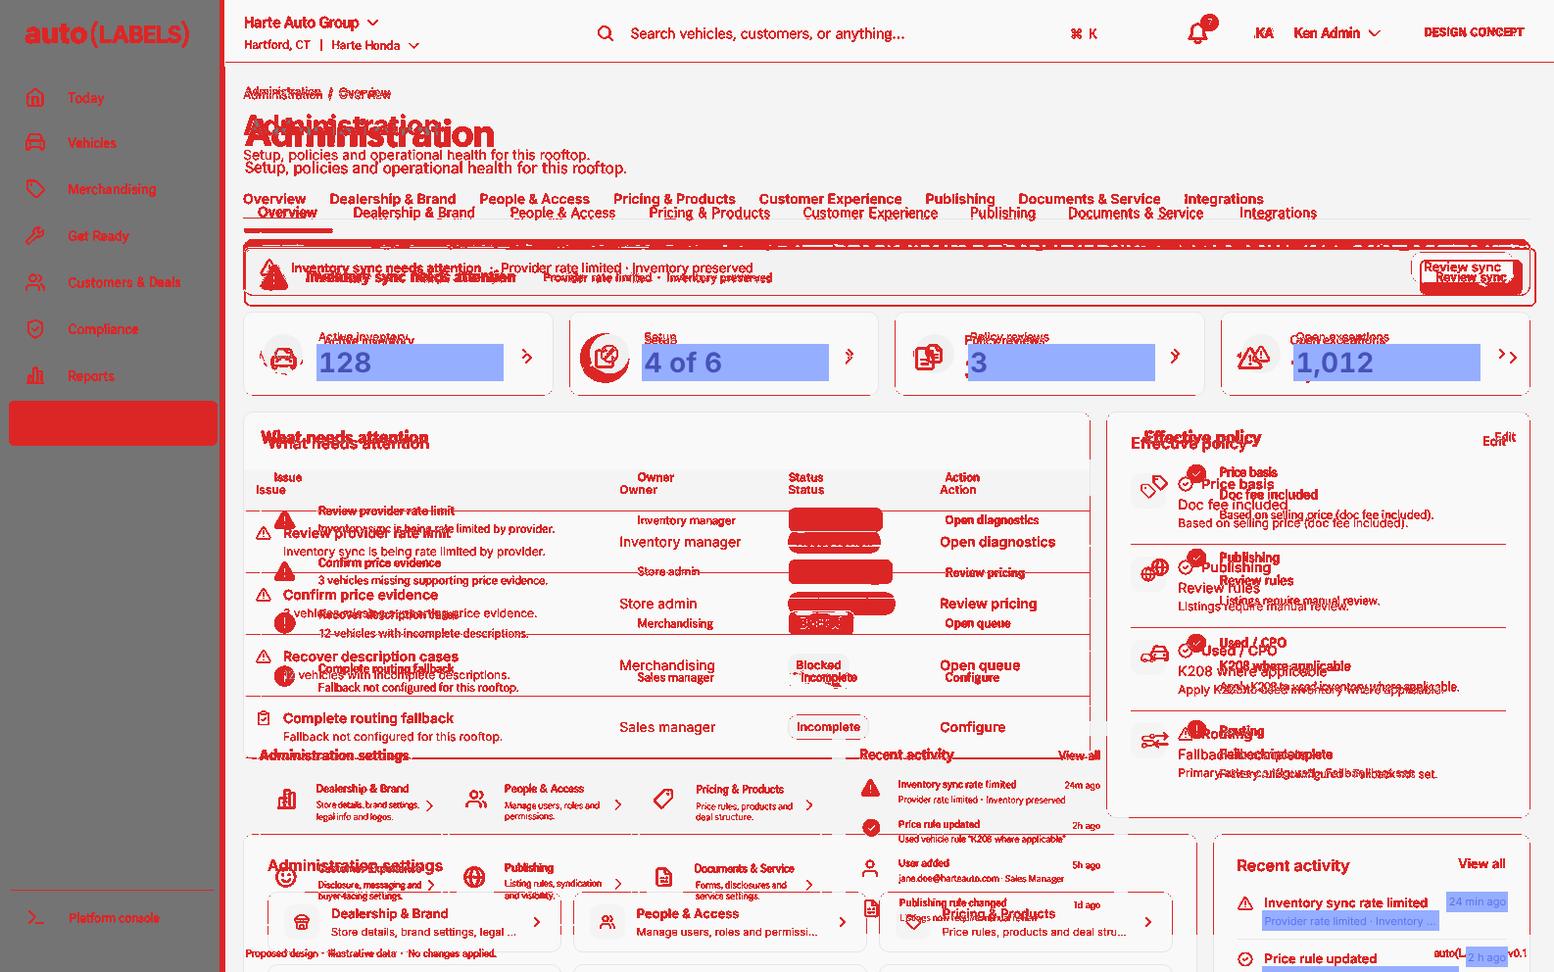
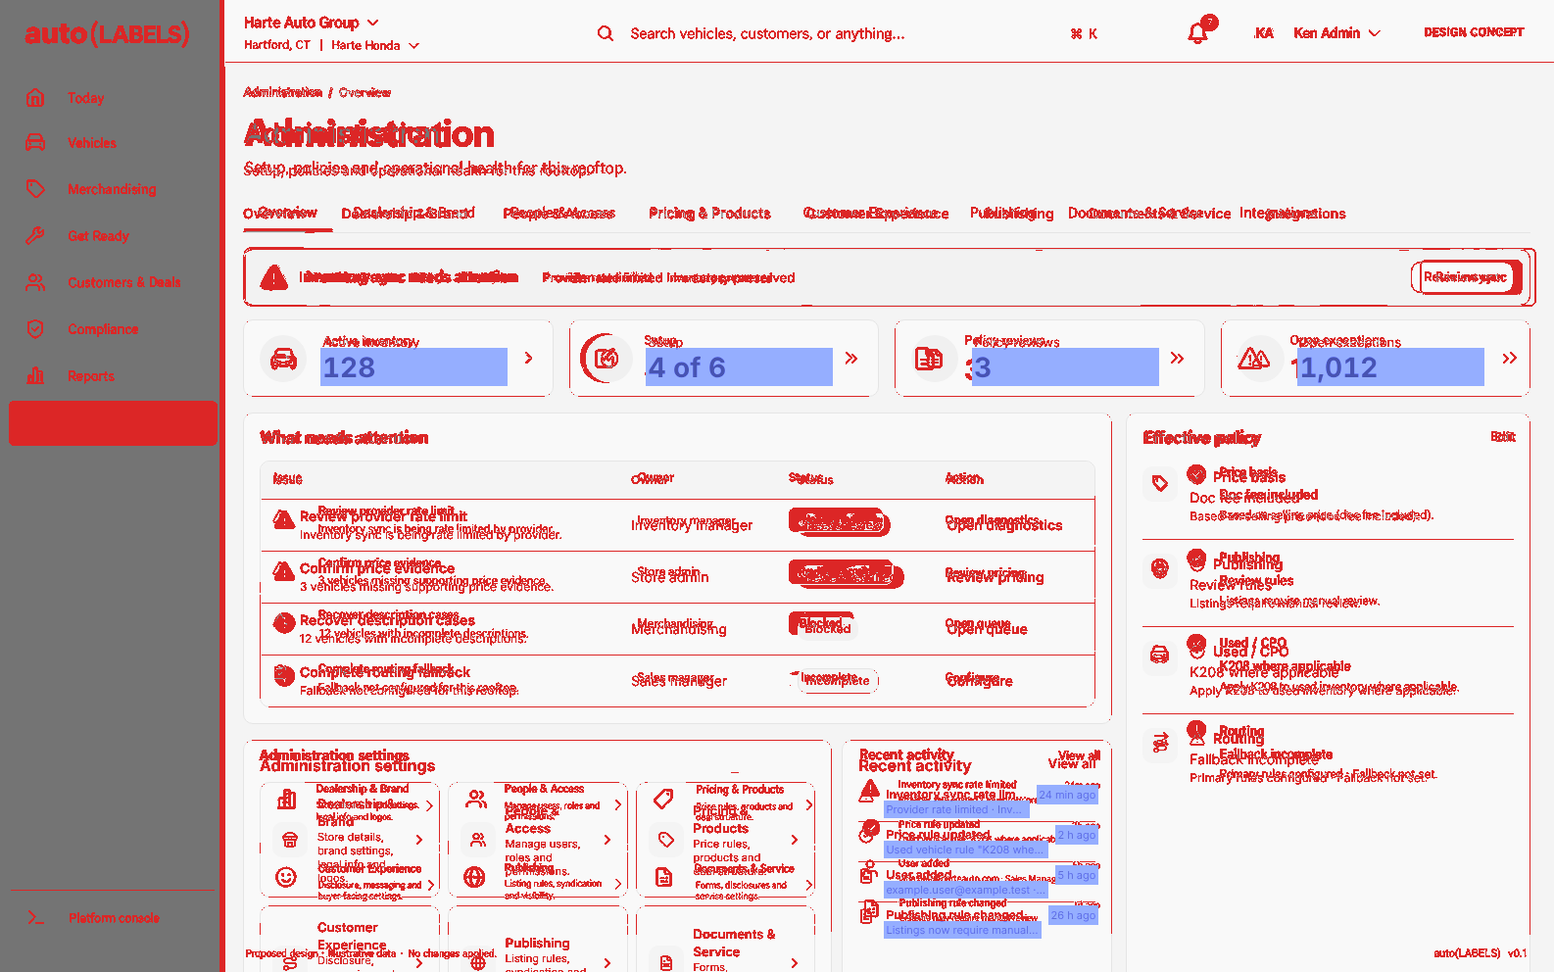
Bring the Overview card rhythm to the reference measurements
- Add a 16px card inset, dense and inset table options, an outline button and a 79px stat tile to the V2 primitives
- Match the header offsets: 22px page padding, 38px section row, no extra content padding
- Stretch Effective policy to the row height and set the attention, policy, settings and activity rhythms from the measured reference

diff --git a/src/pages/admin/views/OverviewView.tsx b/src/pages/admin/views/OverviewView.tsx
@@ -188,31 +188,33 @@ export default function OverviewView() {
 
   return (
     <div className="space-y-4">
-      <HealthBanner
-        verdict={feed}
-        title={feed && feed.state !== "healthy" ? "Inventory sync needs attention" : undefined}
-        action={<AdminLinkButton to={adminTabHref("inventory-feed")} variant="secondary" size="sm">Review sync</AdminLinkButton>}
-      />
-      {failed && (
-        <p role="status" className="text-[13px] text-adm-muted">Some counts could not be read for this rooftop. They show as Unavailable rather than zero.</p>
-      )}
+      <div className="space-y-3.5">
+        <HealthBanner
+          verdict={feed}
+          title={feed && feed.state !== "healthy" ? "Inventory sync needs attention" : undefined}
+          action={<AdminLinkButton to={adminTabHref("inventory-feed")} variant="outline" size="sm">Review sync</AdminLinkButton>}
+        />
+        {failed && (
+          <p role="status" className="text-[13px] text-adm-muted">Some counts could not be read for this rooftop. They show as Unavailable rather than zero.</p>
+        )}
 
-      <div className="grid grid-cols-1 sm:grid-cols-2 xl:grid-cols-4 gap-4">
-        <StatTile icon={Car} label="Active inventory" value={countDisplay(activeInventory)} href="/inventory" tone="info" />
-        <StatTile icon={CheckCircle2} label="Setup" value={setup ? `${setup.done} of ${setup.total}` : "Unknown"} href={adminTabHref("identity")} tone="success" />
-        <StatTile icon={FileText} label="Policy reviews" value={countDisplay(policyReviews)} href="/dashboard/document-review" tone="info" />
-        <StatTile icon={AlertTriangle} label="Open exceptions" value={countDisplay(openExceptions)} href="/admin/exceptions" tone="danger" />
+        <div className="grid grid-cols-1 sm:grid-cols-2 xl:grid-cols-4 gap-4">
+          <StatTile icon={Car} label="Active inventory" value={countDisplay(activeInventory)} href="/inventory" tone="info" />
+          <StatTile icon={CheckCircle2} label="Setup" value={setup ? `${setup.done} of ${setup.total}` : "Unknown"} href={adminTabHref("identity")} tone="success" />
+          <StatTile icon={FileText} label="Policy reviews" value={countDisplay(policyReviews)} href="/dashboard/document-review" tone="info" />
+          <StatTile icon={AlertTriangle} label="Open exceptions" value={countDisplay(openExceptions)} href="/admin/exceptions" tone="danger" />
+        </div>
       </div>
 
-      <div className="grid grid-cols-1 xl:grid-cols-[minmax(0,2.15fr)_minmax(300px,1fr)] gap-3.5 items-start">
+      <div className="grid grid-cols-1 xl:grid-cols-[minmax(0,2.15fr)_minmax(300px,1fr)] gap-3.5 items-stretch">
         <div className="space-y-4 min-w-0">
-        <AdminCard title="What needs attention" flush>
+        <AdminCard title="What needs attention" flush inset="sm">
           {loading && !fixture ? (
-            <p className="px-6 pb-6 text-[13px] text-adm-muted">Checking this rooftop…</p>
+            <p className="px-4 pb-4 text-[13px] text-adm-muted">Checking this rooftop…</p>
           ) : attention.length === 0 ? (
-            <p className="px-6 pb-6 text-[13px] text-adm-muted">{failed ? "Attention items could not be checked." : "Nothing needs attention right now."}</p>
+            <p className="px-4 pb-4 text-[13px] text-adm-muted">{failed ? "Attention items could not be checked." : "Nothing needs attention right now."}</p>
           ) : (
-            <AdminTable caption="Ranked attention queue">
+            <AdminTable caption="Ranked attention queue" dense inset>
               <thead>
                 <tr>
                   <Th>Issue</Th>
@@ -247,17 +249,17 @@ export default function OverviewView() {
           )}
         </AdminCard>
 
-        <div className="grid grid-cols-1 lg:grid-cols-[minmax(0,2.18fr)_minmax(260px,1fr)] gap-2.5 items-start">
-        <AdminCard title="Administration settings">
-          <div className="grid grid-cols-1 sm:grid-cols-2 lg:grid-cols-3 gap-3">
+        <div className="grid grid-cols-1 lg:grid-cols-[minmax(0,2.18fr)_minmax(260px,1fr)] gap-2.5 items-stretch">
+        <AdminCard title="Administration settings" inset="sm" bodyClassName="pt-1.5 pb-3">
+          <div className="grid grid-cols-1 sm:grid-cols-2 lg:grid-cols-3 gap-2">
             {SHORTCUTS.map((s) => {
               const section = ADMIN_SECTIONS.find((x) => x.id === s.section)!;
               return (
-                <Link key={s.section} to={adminTabHref(section.tabs[0].id)} className="flex items-center gap-3 rounded-[10px] border border-adm-border px-4 py-3 hover:border-adm-primary/60">
+                <Link key={s.section} to={adminTabHref(section.tabs[0].id)} className="flex items-center gap-2.5 rounded-[10px] border border-adm-border px-3 py-3 hover:border-adm-primary/60">
                   <span className="w-9 h-9 rounded-md bg-adm-workspace text-adm-ink flex items-center justify-center flex-shrink-0" aria-hidden="true"><s.icon className="w-4 h-4" /></span>
                   <span className="min-w-0 flex-1">
-                    <span className="block text-[13px] font-semibold text-adm-ink">{s.title}</span>
-                    <span className="block text-[11px] leading-[16px] text-adm-muted truncate">{s.detail}</span>
+                    <span className="block text-[13px] leading-[18px] font-semibold text-adm-ink">{s.title}</span>
+                    <span className="block text-[11px] leading-[14px] text-adm-muted line-clamp-2">{s.detail}</span>
                   </span>
                   <ChevronRight className="w-4 h-4 text-adm-muted" aria-hidden="true" />
                 </Link>
@@ -266,21 +268,21 @@ export default function OverviewView() {
           </div>
         </AdminCard>
 
-        <AdminCard title="Recent activity" action={<Link to={adminTabHref("activity")} className="text-[13px] font-semibold text-adm-primary hover:underline">View all</Link>}>
+        <AdminCard title="Recent activity" inset="sm" bodyClassName="pt-1.5 pb-3" action={<Link to={adminTabHref("activity")} className="text-[13px] font-semibold text-adm-primary hover:underline">View all</Link>}>
           {activity.length === 0 ? (
             <p className="text-[13px] text-adm-muted">No recent activity recorded for this rooftop.</p>
           ) : (
-            <ul className="divide-y divide-adm-border -mt-2">
+            <ul className="divide-y divide-adm-border">
               {activity.slice(0, 5).map((a) => (
-                <li key={a.id} className="flex items-start gap-3 py-2.5">
-                  <span className={`mt-0.5 w-4 h-4 flex-shrink-0 ${a.tone === "warning" ? "text-adm-warning" : a.tone === "success" ? "text-adm-success" : "text-adm-muted"}`} aria-hidden="true">
+                <li key={a.id} className="flex items-start gap-3 py-[5px]">
+                  <span className={`mt-px w-4 h-4 flex-shrink-0 ${a.tone === "warning" ? "text-adm-warning" : a.tone === "success" ? "text-adm-success" : "text-adm-muted"}`} aria-hidden="true">
                     {a.tone === "warning" ? <AlertTriangle className="w-4 h-4" /> : a.tone === "success" ? <CheckCircle2 className="w-4 h-4" /> : <FileText className="w-4 h-4" />}
                   </span>
                   <span className="min-w-0 flex-1">
-                    <span className="block text-[13px] font-semibold text-adm-ink truncate">{a.action}</span>
-                    <span className="block text-[11px] leading-[16px] text-adm-muted truncate">{a.detail}</span>
+                    <span className="block text-[12px] leading-[16px] font-semibold text-adm-ink truncate">{a.action}</span>
+                    <span className="block text-[11px] leading-[14px] text-adm-muted truncate">{a.detail}</span>
                   </span>
-                  <span className="text-[11px] text-adm-muted whitespace-nowrap">{describeAge(a.at, now)}</span>
+                  <span className="text-[11px] leading-[16px] text-adm-muted whitespace-nowrap">{describeAge(a.at, now)}</span>
                 </li>
               ))}
             </ul>
@@ -289,13 +291,13 @@ export default function OverviewView() {
         </div>
         </div>
 
-        <AdminCard title="Effective policy" action={<Link to={adminTabHref("effective-policy")} className="text-[13px] font-semibold text-adm-primary hover:underline">Edit</Link>}>
+        <AdminCard title="Effective policy" inset="sm" className="h-full" action={<Link to={adminTabHref("effective-policy")} className="text-[13px] font-semibold text-adm-primary hover:underline">Edit</Link>}>
           <ul className="divide-y divide-adm-border -mt-2">
             {policy.map((row) => {
               const Icon = row.key === "price_basis" ? Tag : row.key === "publishing" ? Globe : row.key === "used_cpo" ? Car : Route;
               const ok = row.state === "ok";
               return (
-                <li key={row.key} className="flex items-start gap-3 py-3">
+                <li key={row.key} className="flex items-start gap-3 py-[14px]">
                   <span className="w-9 h-9 rounded-md bg-adm-workspace text-adm-muted flex items-center justify-center flex-shrink-0" aria-hidden="true"><Icon className="w-4 h-4" /></span>
                   <div className="min-w-0 flex-1">
                     <div className="flex items-center gap-2">

diff --git a/src/components/admin/v2/primitives.tsx b/src/components/admin/v2/primitives.tsx
@@ -52,6 +52,7 @@ export const AdminCard = ({
   bodyClassName,
   id,
   flush = false,
+  inset = "md",
 }: {
   title?: ReactNode;
   description?: ReactNode;
@@ -62,20 +63,26 @@ export const AdminCard = ({
   id?: string;
   /** Table cards: no body padding so rows run edge to edge. */
   flush?: boolean;
-}) => (
-  <section id={id} className={cn("rounded-[10px] border border-adm-border bg-adm-surface", className)}>
-    {(title || action) && (
-      <header className={cn("flex items-start justify-between gap-4 px-6 pt-5", flush ? "pb-4" : "pb-0")}>
-        <div className="min-w-0">
-          {title && <h3 className="text-[16px] leading-[22px] font-semibold text-adm-ink">{title}</h3>}
-          {description && <p className="mt-0.5 text-[13px] leading-[18px] text-adm-muted">{description}</p>}
-        </div>
-        {action && <div className="flex-shrink-0 flex items-center gap-2">{action}</div>}
-      </header>
-    )}
-    <div className={cn(flush ? "" : "px-6 pb-6", title && !flush ? "pt-4" : !title && !flush ? "pt-6" : "", bodyClassName)}>{children}</div>
-  </section>
-);
+  /** Dense dashboard cards sit on a 16px inset; the default form card keeps 24px. */
+  inset?: "sm" | "md";
+}) => {
+  const sm = inset === "sm";
+  const padX = sm ? "px-4" : "px-6";
+  return (
+    <section id={id} className={cn("rounded-[10px] border border-adm-border bg-adm-surface", className)}>
+      {(title || action) && (
+        <header className={cn("flex items-start justify-between gap-4", padX, sm ? "pt-3.5" : "pt-5", flush ? (sm ? "pb-3" : "pb-4") : "pb-0")}>
+          <div className="min-w-0">
+            {title && <h3 className="text-[16px] leading-[22px] font-semibold text-adm-ink">{title}</h3>}
+            {description && <p className="mt-0.5 text-[13px] leading-[18px] text-adm-muted">{description}</p>}
+          </div>
+          {action && <div className="flex-shrink-0 flex items-center gap-2">{action}</div>}
+        </header>
+      )}
+      <div className={cn(flush ? "" : cn(padX, sm ? "pb-4" : "pb-6"), title && !flush ? (sm ? "pt-3" : "pt-4") : !title && !flush ? (sm ? "pt-4" : "pt-6") : "", bodyClassName)}>{children}</div>
+    </section>
+  );
+};
 
 export const SectionTitle = ({ title, description, action, as: Tag = "h2" }: { title: ReactNode; description?: ReactNode; action?: ReactNode; as?: "h2" | "h3" }) => (
   <div className="flex items-end justify-between gap-4 flex-wrap">
@@ -114,19 +121,19 @@ export const StatTile = ({
   const body = (
     <>
       {Icon && (
-        <span className={cn("w-10 h-10 rounded-full flex items-center justify-center flex-shrink-0", iconWrap[tone])} aria-hidden="true">
+        <span className={cn("w-12 h-12 rounded-full flex items-center justify-center flex-shrink-0", iconWrap[tone])} aria-hidden="true">
           <Icon className="w-5 h-5" />
         </span>
       )}
       <span className="min-w-0 flex-1">
-        <span className="block text-[12px] leading-[18px] text-adm-muted">{label}</span>
+        <span className="block text-[13px] leading-[18px] text-adm-muted">{label}</span>
         <span className="block text-[28px] leading-[34px] font-bold text-adm-ink tabular-nums truncate">{value}</span>
         {hint && <span className="block text-[12px] leading-[18px] text-adm-muted mt-0.5 truncate">{hint}</span>}
       </span>
       {href && <ChevronRight className="w-4 h-4 text-adm-muted flex-shrink-0" aria-hidden="true" />}
     </>
   );
-  const cls = "flex items-center gap-4 rounded-[10px] border border-adm-border bg-adm-surface px-5 py-4 min-h-[76px]";
+  const cls = "flex items-center gap-4 rounded-[10px] border border-adm-border bg-adm-surface px-4 py-3 min-h-[79px]";
   return href ? (
     <Link to={href} className={cn(cls, "hover:border-adm-primary/60 focus-visible:outline-2 focus-visible:outline-adm-primary")} aria-label={ariaLabel ?? `${label}: ${typeof value === "string" || typeof value === "number" ? value : ""}`}>
       {body}
@@ -154,24 +161,24 @@ export const HealthBanner = ({ verdict, action, title }: { verdict: HealthVerdic
 export const InlineNote = ({ tone = "info", title, children, action, className }: { tone?: Tone; title?: ReactNode; children?: ReactNode; action?: ReactNode; className?: string }) => {
   const Icon = TONE_ICON[tone];
   return (
-    <div role={tone === "danger" ? "alert" : "status"} className={cn("flex items-center gap-3 rounded-[10px] border px-4 py-3", BANNER[tone], className)}>
-      <Icon className="w-5 h-5 flex-shrink-0" aria-hidden="true" />
-      <div className="min-w-0 flex-1 text-[13px] leading-[18px]">
-        {title && <span className="font-semibold">{title}</span>}
-        {title && children && <span className="mx-2 opacity-60" aria-hidden="true">·</span>}
-        {children && <span className="opacity-90">{children}</span>}
+    <div role={tone === "danger" ? "alert" : "status"} className={cn("flex items-center gap-4 rounded-[10px] border px-4 py-3", BANNER[tone], className)}>
+      <Icon className="w-6 h-6 flex-shrink-0" aria-hidden="true" />
+      <div className="min-w-0 flex-1 flex items-baseline gap-x-6 gap-y-0 flex-wrap">
+        {title && <span className="text-[15px] leading-[22px] font-semibold">{title}</span>}
+        {children && <span className="text-[13px] leading-[18px] opacity-90">{children}</span>}
       </div>
       {action && <div className="flex-shrink-0">{action}</div>}
     </div>
   );
 };
 
-type ButtonProps = ButtonHTMLAttributes<HTMLButtonElement> & { variant?: "primary" | "secondary" | "ghost" | "danger"; size?: "sm" | "md" };
+type ButtonProps = ButtonHTMLAttributes<HTMLButtonElement> & { variant?: "primary" | "secondary" | "outline" | "ghost" | "danger"; size?: "sm" | "md" };
 
 const BUTTON_BASE = "inline-flex items-center justify-center gap-2 rounded-md font-semibold text-[14px] leading-[20px] transition-colors disabled:opacity-50 disabled:cursor-not-allowed focus-visible:outline focus-visible:outline-2 focus-visible:outline-offset-2 focus-visible:outline-adm-primary";
 const BUTTON_VARIANT: Record<NonNullable<ButtonProps["variant"]>, string> = {
   primary: "bg-adm-primary text-white hover:bg-adm-primary-hover border border-adm-primary",
   secondary: "bg-adm-surface text-adm-ink border border-adm-border hover:bg-adm-workspace",
+  outline: "bg-adm-surface text-adm-primary border border-adm-primary hover:bg-adm-selected",
   ghost: "bg-transparent text-adm-primary hover:bg-adm-selected",
   danger: "bg-adm-surface text-adm-danger border border-[#F3B4AE] hover:bg-adm-danger-bg",
 };
@@ -186,8 +193,8 @@ export const AdminLinkButton = ({ variant = "secondary", size = "md", className,
 );
 
 /** Table shell: 12px semibold headers on the workspace tint, 12px cells, 1px row lines. */
-export const AdminTable = ({ children, className, caption }: { children: ReactNode; className?: string; caption?: string }) => (
-  <div className={cn("overflow-x-auto", className)}>
+export const AdminTable = ({ children, className, caption, dense = false, inset = false }: { children: ReactNode; className?: string; caption?: string; /** 7px cells for dashboard queues. */ dense?: boolean; /** Draw the table as a bordered box inside a flush card. */ inset?: boolean }) => (
+  <div className={cn("overflow-x-auto", inset && "mx-4 mb-4 rounded-md border border-adm-border", dense && "[&_th]:py-2.5 [&_td]:py-[7px] [&_tbody_tr:last-child>td]:border-b-0", className)}>
     <table className="w-full border-collapse text-left text-[14px] leading-[20px] text-adm-ink">
       {caption && <caption className="sr-only">{caption}</caption>}
       {children}

diff --git a/src/components/admin/v2/AdminShell.tsx b/src/components/admin/v2/AdminShell.tsx
@@ -23,7 +23,7 @@ export const AdminSectionNav = ({ sections, activeId, tabFor, ariaLabel = "Admin
               to={adminTabHref(target.id)}
               aria-current={active ? "page" : undefined}
               className={cn(
-                "inline-flex items-center h-10 text-[14px] leading-[20px] font-semibold whitespace-nowrap border-b-2 -mb-px transition-colors focus-visible:outline-2 focus-visible:outline-adm-primary",
+                "inline-flex items-center h-[38px] text-[14px] leading-[20px] font-semibold whitespace-nowrap border-b-2 -mb-px transition-colors focus-visible:outline-2 focus-visible:outline-adm-primary",
                 active ? "text-adm-primary border-adm-primary" : "text-adm-muted border-transparent hover:text-adm-ink",
               )}
             >
@@ -86,7 +86,7 @@ export const Breadcrumbs = ({ crumbs }: { crumbs: Crumb[] }) => (
 );
 
 export const AdminPageContainer = ({ children, className }: { children: ReactNode; className?: string }) => (
-  <div data-admin-v2="" className={cn("w-full max-w-[1600px] mx-auto px-4 sm:px-6 py-5 sm:py-6 text-adm-ink", className)}>
+  <div data-admin-v2="" className={cn("w-full max-w-[1600px] mx-auto px-4 sm:px-6 py-5 sm:py-[22px] text-adm-ink", className)}>
     {children}
   </div>
 );
@@ -110,12 +110,12 @@ export const AdminShell = ({
     <div className="space-y-4">
       <div>
         <Breadcrumbs crumbs={[{ label: "Administration", href: "/admin" }, { label: activeSection.label }]} />
-        <h1 className="mt-4 text-[28px] leading-[40px] font-bold text-adm-ink">Administration</h1>
-        <p className="mt-1.5 text-[14px] leading-[20px] text-adm-muted">{activeSection.description}</p>
+        <h1 className="mt-3 text-[28px] leading-[40px] font-bold text-adm-ink">Administration</h1>
+        <p className="mt-2 text-[14px] leading-[20px] text-adm-muted">{activeSection.description}</p>
       </div>
       <AdminSectionNav sections={sections} activeId={activeSection.id} tabFor={firstTabFor} />
       <AdminChildTabs tabs={tabsForSection} activeId={activeTab.id} ariaLabel={`${activeSection.label} views`} />
-      <div className="pt-1">{children}</div>
+      <div>{children}</div>
     </div>
   </AdminPageContainer>
 );

diff --git a/ADMIN_V2_PARITY_REPORT.md b/ADMIN_V2_PARITY_REPORT.md
@@ -1,6 +1,6 @@
 # Administration V2 visual parity report
 
-Generated 2026-10-28T03:41:30.459Z by `bun run admin:parity` against the development fixture route. Every screen is a synthetic fixture rendered by the real Administration components; no production data appears in any capture.
+Generated 2026-10-28T04:06:43.914Z by `bun run admin:parity` against the development fixture route. Every screen is a synthetic fixture rendered by the real Administration components; no production data appears in any capture.
 
 ## Method
 
@@ -13,16 +13,16 @@ Generated 2026-10-28T03:41:30.459Z by `bun run admin:parity` against the develop
 - Landmarks: hand-measured boxes from the reference (`scripts/admin-parity/landmarks.json`, tolerance 16px) compared with the rendered DOM boxes.
 - Responsive: 1920x1080, 1366x768, 1024x768 and 390x844 captured; a breakpoint passes when the document has no horizontal overflow and no element extends past the viewport.
 
-Registered fixtures: 01.
+Registered fixtures: 10, 11, 01, 03, 04, 08, 09.
 
 ## Screen 01
 
-Reference: `scripts/admin-parity/reference/01-admin-overview.png`. Fonts: Inter loaded (Inter). Gate: FAIL (landmarks out of tolerance; page overflow at a breakpoint; content parity 88.64% is below 97%).
+Reference: `scripts/admin-parity/reference/01-admin-overview.png`. Fonts: Inter loaded (Inter). Gate: FAIL (content parity 90.68% is below 97%).
 
 | Frame | Capture | Full parity | Full structure | Content parity | Content structure | Masked |
 |---|---|---|---|---|---|---|
-| 1586x992 | `scripts/admin-parity/out/01-1586x992.png` | 89.23% | 66.71% | 88.64% | 63.34% | 2.31% |
-| 1600x1000 | `scripts/admin-parity/out/01-1600x1000.png` | 88.50% | 67.40% | 88.01% | 64.08% | 2.40% |
+| 1586x992 | `scripts/admin-parity/out/01-1586x992.png` | 90.84% | 71.77% | 90.68% | 69.77% | 2.89% |
+| 1600x1000 | `scripts/admin-parity/out/01-1600x1000.png` | 90.71% | 72.24% | 90.81% | 70.21% | 2.88% |
 
 Diff image: `scripts/admin-parity/out/01-1586x992-diff.png` (red differs, blue masked).
 Committed copies of that capture and diff: `scripts/admin-parity/evidence/01-1586x992.png` and `scripts/admin-parity/evidence/01-1586x992-diff.png`.
@@ -31,23 +31,23 @@ Masks (12): summary tile counts; recent activity relative times; recent activity
 
 | Landmark | Result | Expected | Measured | Delta |
 |---|---|---|---|---|
-| breadcrumb | within tolerance | x=249 y=86 | x=248 y=88 w=1314 h=18 | x-1 y+2 |
-| title | within tolerance | x=249 y=116 h=40 | x=248 y=110 w=1314 h=36 | x-1 y-6 h-4 |
-| sectionNav | within tolerance | x=249 y=200 w=1317 h=38 | x=248 y=184 w=1314 h=40 | x-1 y-16 w-3 h+2 |
-| banner | within tolerance | x=249 y=254 w=1317 h=58 | x=248 y=244 w=1314 h=58 | x-1 y-10 w-3 h+0 |
-| tile1 | within tolerance | x=249 y=326 w=313 h=79 | x=248 y=318 w=317 h=86 | x-1 y-8 w+4 h+7 |
-| tile4 | within tolerance | x=1235 y=326 w=331 h=79 | x=1246 y=318 w=317 h=86 | x+11 y-8 w-14 h+7 |
-| attentionCard | OUT of tolerance | x=249 y=420 w=889 | x=248 y=420 w=865 h=355 | x-1 y+0 w-24 |
-| policyCard | OUT of tolerance | x=1152 y=420 w=414 | x=1129 y=420 w=433 h=415 | x-23 y+0 w+19 |
-| settingsCard | OUT of tolerance | x=249 y=748 w=603 | x=248 y=851 w=974 h=220 | x-1 y+103 w+371 |
-| activityCard | OUT of tolerance | x=862 y=748 w=276 | x=1238 y=851 w=325 h=301 | x+376 y+103 w+49 |
+| breadcrumb | within tolerance | x=249 y=86 | x=248 y=86 w=1314 h=18 | x-1 y+0 |
+| title | within tolerance | x=249 y=116 h=40 | x=248 y=116 w=1314 h=40 | x-1 y+0 h+0 |
+| sectionNav | within tolerance | x=249 y=200 w=1317 h=38 | x=248 y=200 w=1314 h=38 | x-1 y+0 w-3 h+0 |
+| banner | within tolerance | x=249 y=254 w=1317 h=58 | x=248 y=254 w=1314 h=58 | x-1 y+0 w-3 h+0 |
+| tile1 | within tolerance | x=249 y=326 w=313 h=79 | x=248 y=326 w=317 h=79 | x-1 y+0 w+4 h+0 |
+| tile4 | within tolerance | x=1235 y=326 w=331 h=79 | x=1246 y=326 w=317 h=79 | x+11 y+0 w-14 h+0 |
+| attentionCard | within tolerance | x=249 y=420 w=889 | x=248 y=421 w=887 h=318 | x-1 y+1 w-2 |
+| policyCard | within tolerance | x=1152 y=420 w=414 | x=1149 y=421 w=413 h=634 | x-3 y+1 w-1 |
+| settingsCard | within tolerance | x=249 y=748 w=603 | x=248 y=755 w=601 h=300 | x-1 y+7 w-2 |
+| activityCard | within tolerance | x=862 y=748 w=276 | x=859 y=755 w=276 h=300 | x-3 y+7 w+0 |
 
 | Viewport | Page overflow | scrollWidth | innerWidth | Widest fixed element | Scroll regions | Capture |
 |---|---|---|---|---|---|---|
 | 1920x1080 | none | 1920 | 1920 | 1848 | none | `scripts/admin-parity/out/01-1920x1080.png` |
-| 1366x768 | none | 1366 | 1366 | 1342 | none | `scripts/admin-parity/out/01-1366x768.png` |
+| 1366x768 | none | 1366 | 1366 | 1342 | nav[Administration sections] | `scripts/admin-parity/out/01-1366x768.png` |
 | 1024x768 | none | 1024 | 1024 | 1000 | nav[Administration sections] | `scripts/admin-parity/out/01-1024x768.png` |
-| 390x844 | OVERFLOW | 442 | 390 | 416 | nav[Administration sections], div | `scripts/admin-parity/out/01-390x844.png` |
+| 390x844 | none | 390 | 390 | 374 | nav[Administration sections], div | `scripts/admin-parity/out/01-390x844.png` |
 
 ### Findings for screen 01
 
